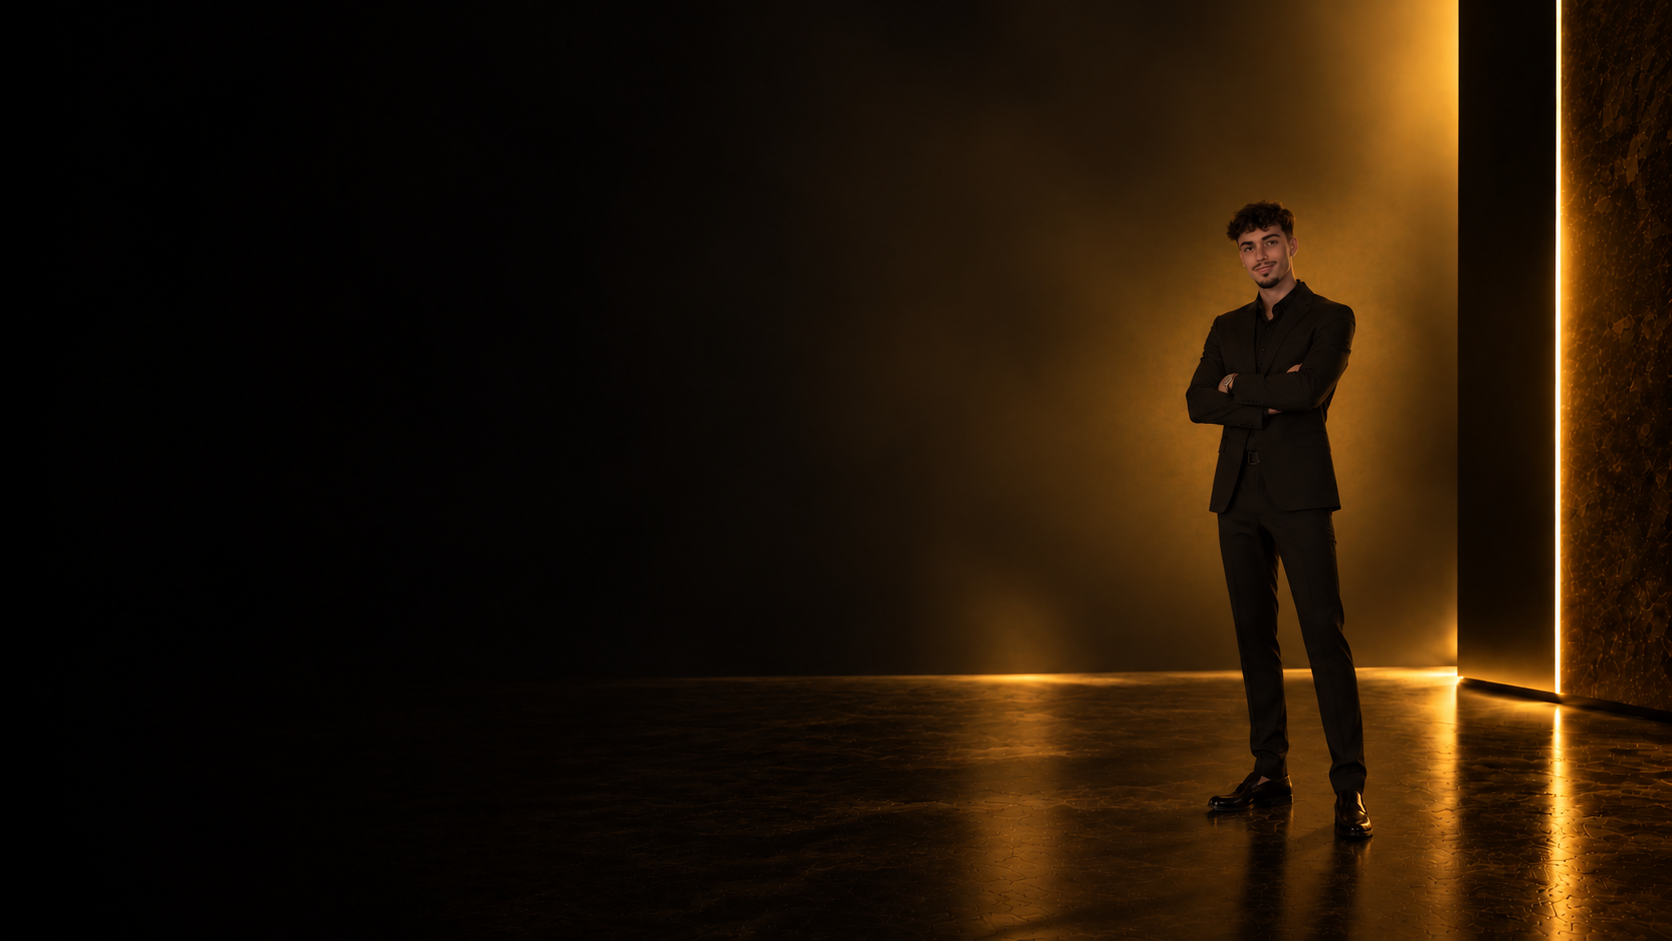
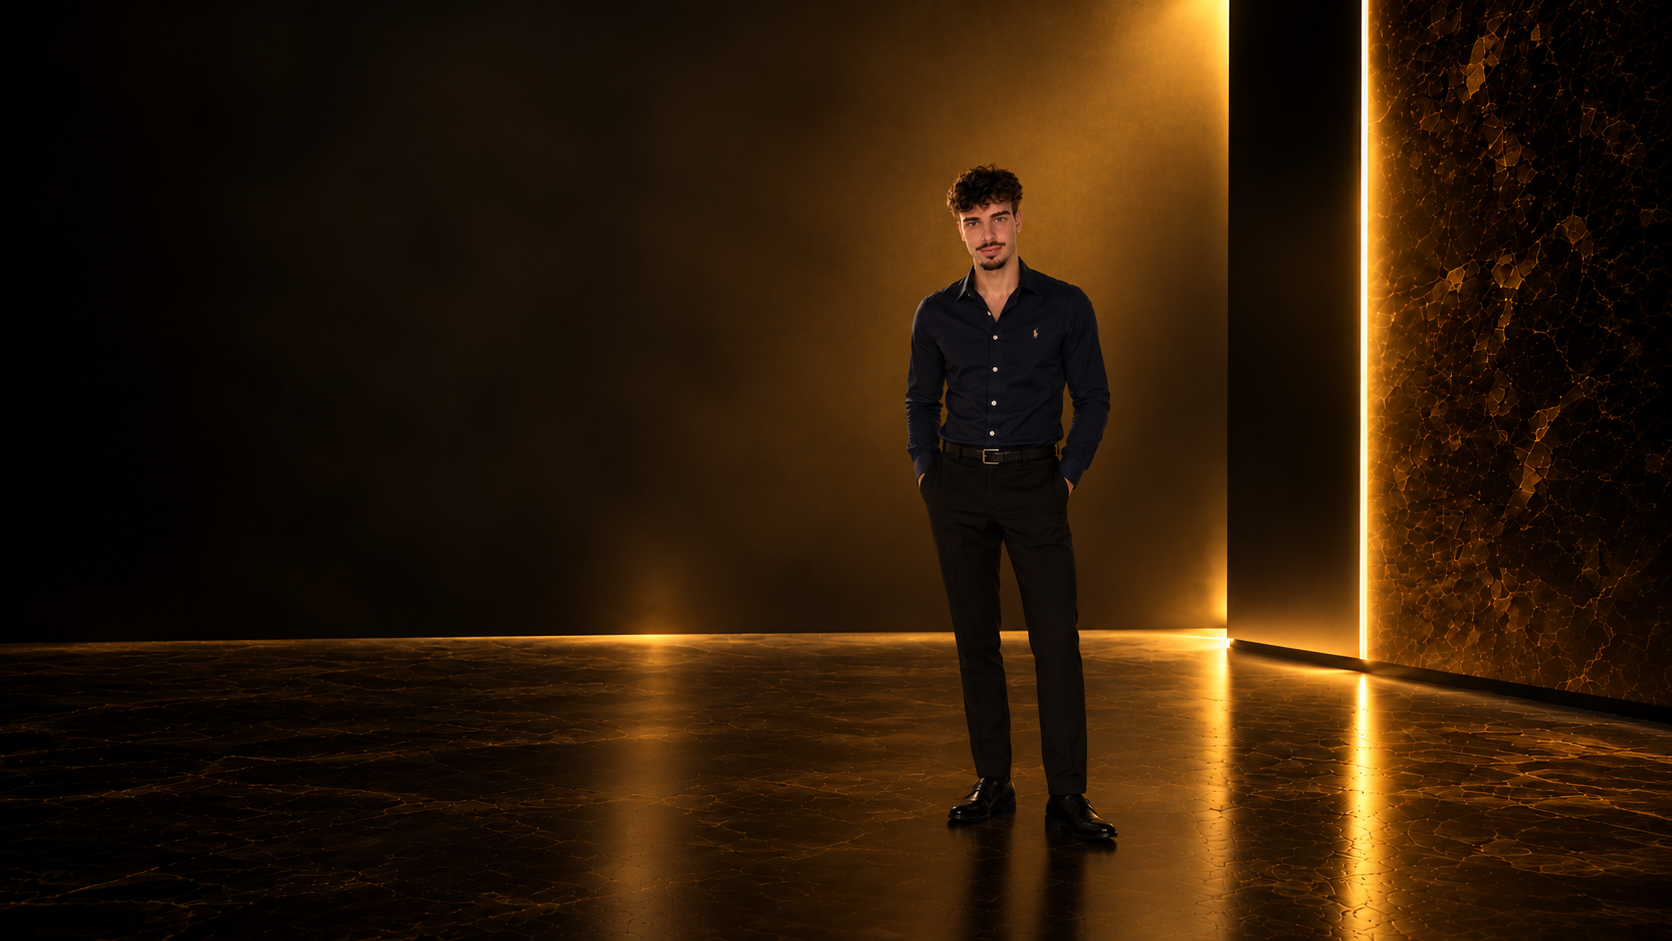
changed hero img

diff --git a/src/sections/landing/hero.tsx b/src/sections/landing/hero.tsx
@@ -6,14 +6,19 @@ export const HeroComponentSection = () => {
     <section
       id="home"
       className="
-    relative flex min-h-150 h-screen
-    items-center overflow-hidden
+    relative
+    flex
+    min-h-150
+    h-screen
+    items-center
+    overflow-hidden
     bg-[#050505]
     bg-[url('/hero.png')]
-    bg-position-[80%_center]
-    sm:bg-position-[75%_center]
-    lg:bg-position-[65%_center]
+    bg-cover
+    bg-center
     bg-no-repeat
+    sm:bg-[position:58%_center]
+    lg:bg-[position:52%_center]
   "
     >
       {/* OVERLAY */}
